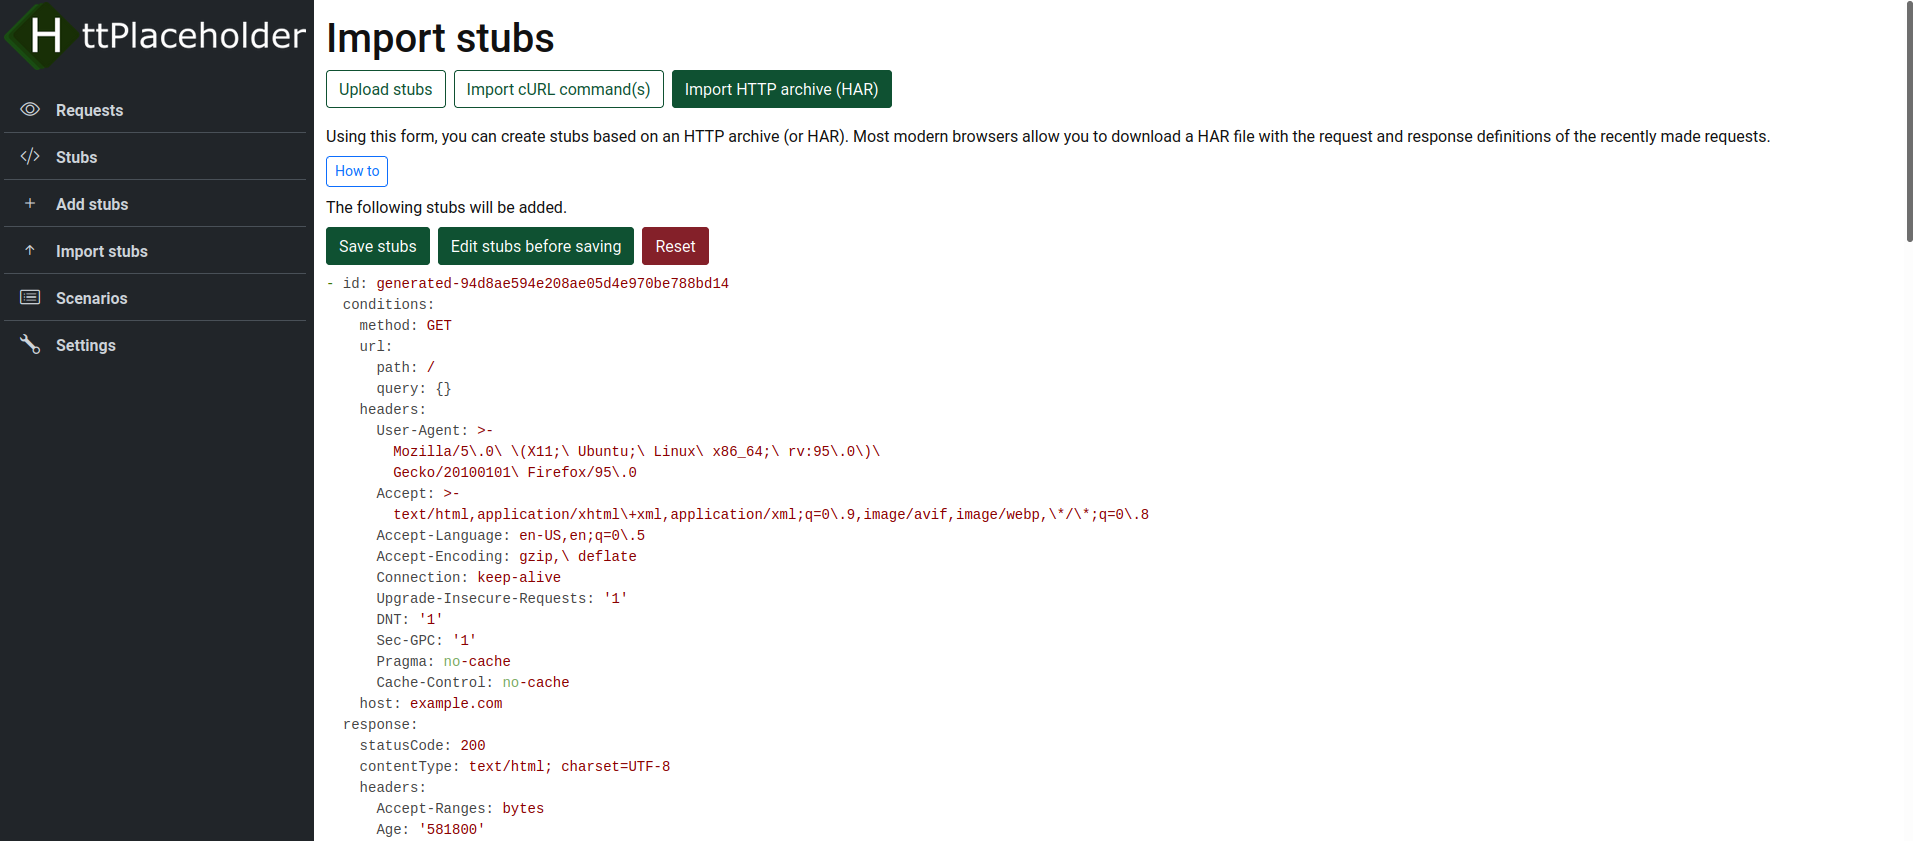
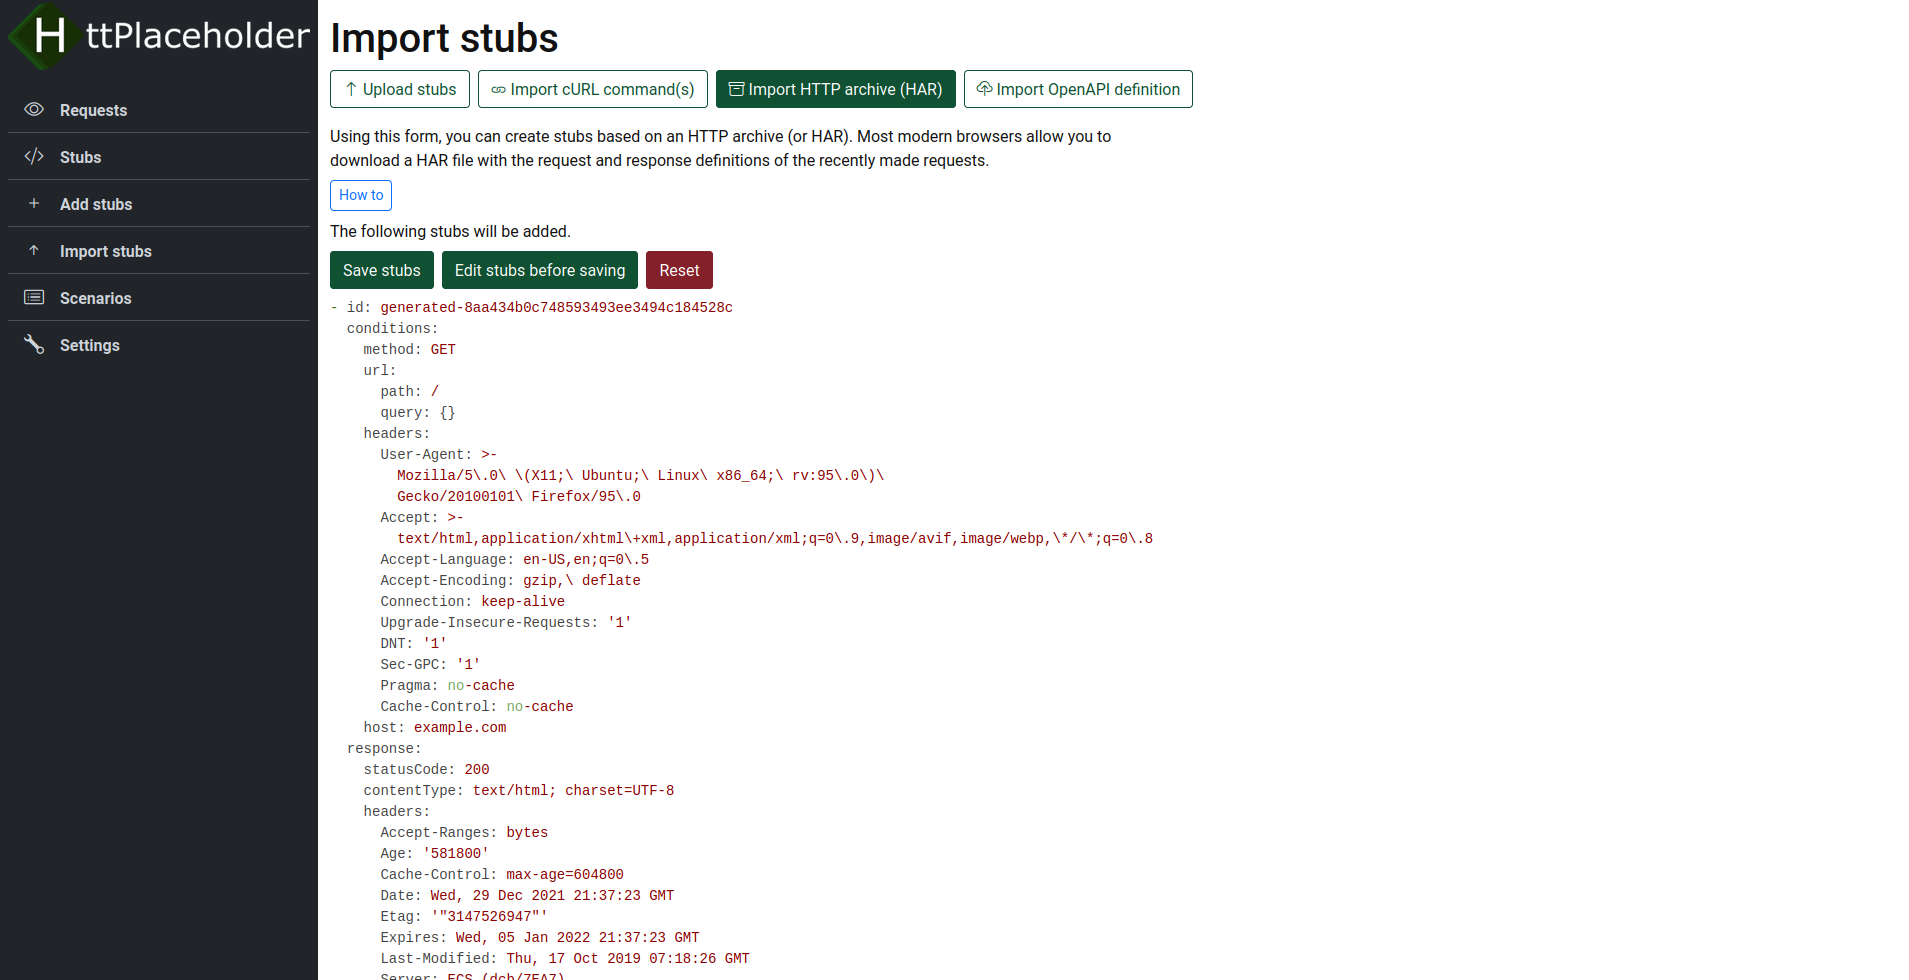
Updated docs

diff --git a/docs/docs.md b/docs/docs.md
@@ -1690,7 +1690,11 @@ To read more about scenarios, go to [conditions](#request-scenario) or [response
 
 ## Import
 
-The import collection is used to be able to import all kinds of data in HttPlaceholder.
+The import collection is used to be able to import all kinds of data in HttPlaceholder. The following kinds of import are currently supported:
+
+* [cURL commands](#import-curl-commands)
+* [HTTP Archive (HAR)](#import-http-archive-har)
+* [OpenAPI definitions](#import-openapi-definition)
 
 # Configuration
 
@@ -2035,6 +2039,8 @@ On this page, you can upload stubs you have saved on your PC in YAML format. You
 
 On this page, you can create new stubs based on cURL commands. You can, for example, use cURL commands you have lying around or you can copy/paste cURL commands from your browser.
 
+You can optionally fill in a tenant. All stubs that are created, will be created under this tenant. This is so you can easily see which stubs were imported together. If you do not provide a tenant, a tenant name will be automatically generated.
+
 ![](img/ui/stub_curl_form.png)
 _On this form, you can import one or multiple cURL commands. You can also upload a file with the cURL commands in it._
 
@@ -2071,6 +2077,8 @@ _Copy as cURL in Chrome on Windows_
 
 On this page, you can import an HTTP archive (or HAR for short) to create stubs based on it. An HTTP archive file is a JSON file that is a representation of a set of requests with its corresponding response. Most modern browsers allow you to copy or download the HAR file.
 
+You can optionally fill in a tenant. All stubs that are created, will be created under this tenant. This is so you can easily see which stubs were imported together. If you do not provide a tenant, a tenant name will be automatically generated.
+
 ![](img/ui/stub_har_form.png)
 _On this form, you can import a HAR file by pasting the contents of the HAR. You can also upload a HAR file._
 
@@ -2095,6 +2103,20 @@ and select "Copy all as HAR"._
 _In Chrome, you can also click "Copy all as HAR", but this does not
 copy the response contents. To get the full responses, you need to
 click "Save all as HAR with content" to get the full HAR._
+
+### Import OpenAPI definition
+
+On this page, you can import an [OpenAPI](https://www.openapis.org/) definition. Many modern APIs are accompanied by an OpenAPI definition. This is a JSON or YAML file which contains the definition of a specific API. By importing the OpenAPI definition, HttPlaceholder will create stubs for you so you can start developing against this new API.
+
+You can find some OpenAPI examples here: <https://github.com/OAI/OpenAPI-Specification/tree/main/examples>
+
+You can optionally fill in a tenant. All stubs that are created, will be created under this tenant. This is so you can easily see which stubs were imported together. If you do not provide a tenant, a tenant name will be automatically generated.
+
+![](img/ui/stub_openapi_form.png)
+_On this form, you can import an OpenAPI file by pasting the contents of the HAR. You can also upload an OpenAPI file._
+
+![](img/ui/stub_openapi_form_review.png)
+_When pressing the "Import OpenAPI definition" button, you will see the stubs that will be added. You will have the option to directly save the stubs, edit the stubs before saving or resetting and starting over._
 
 ## Add stub(s) form
 
